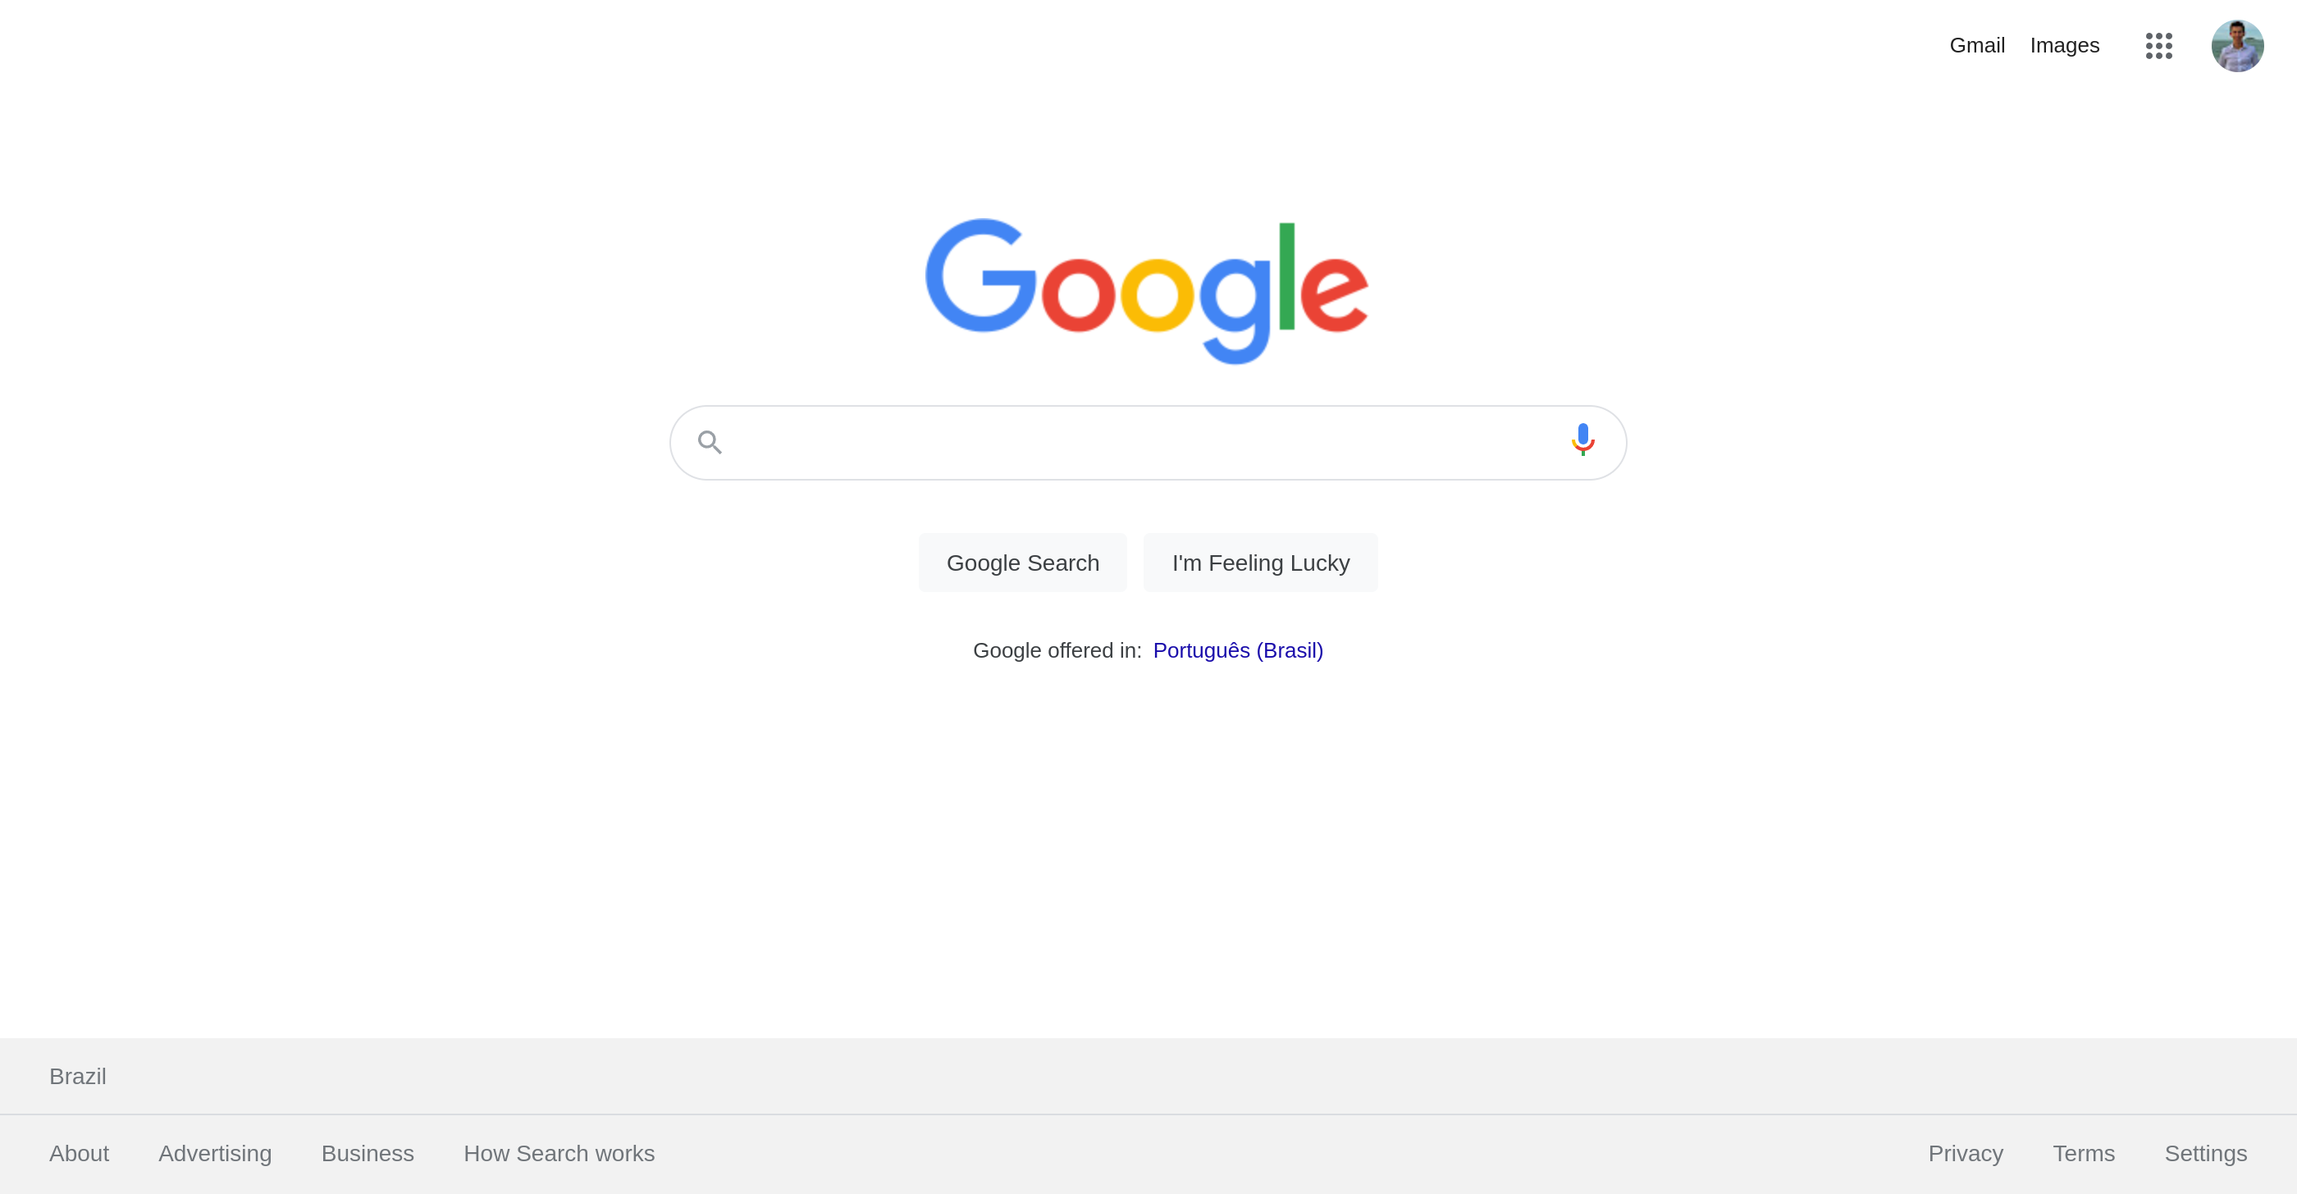
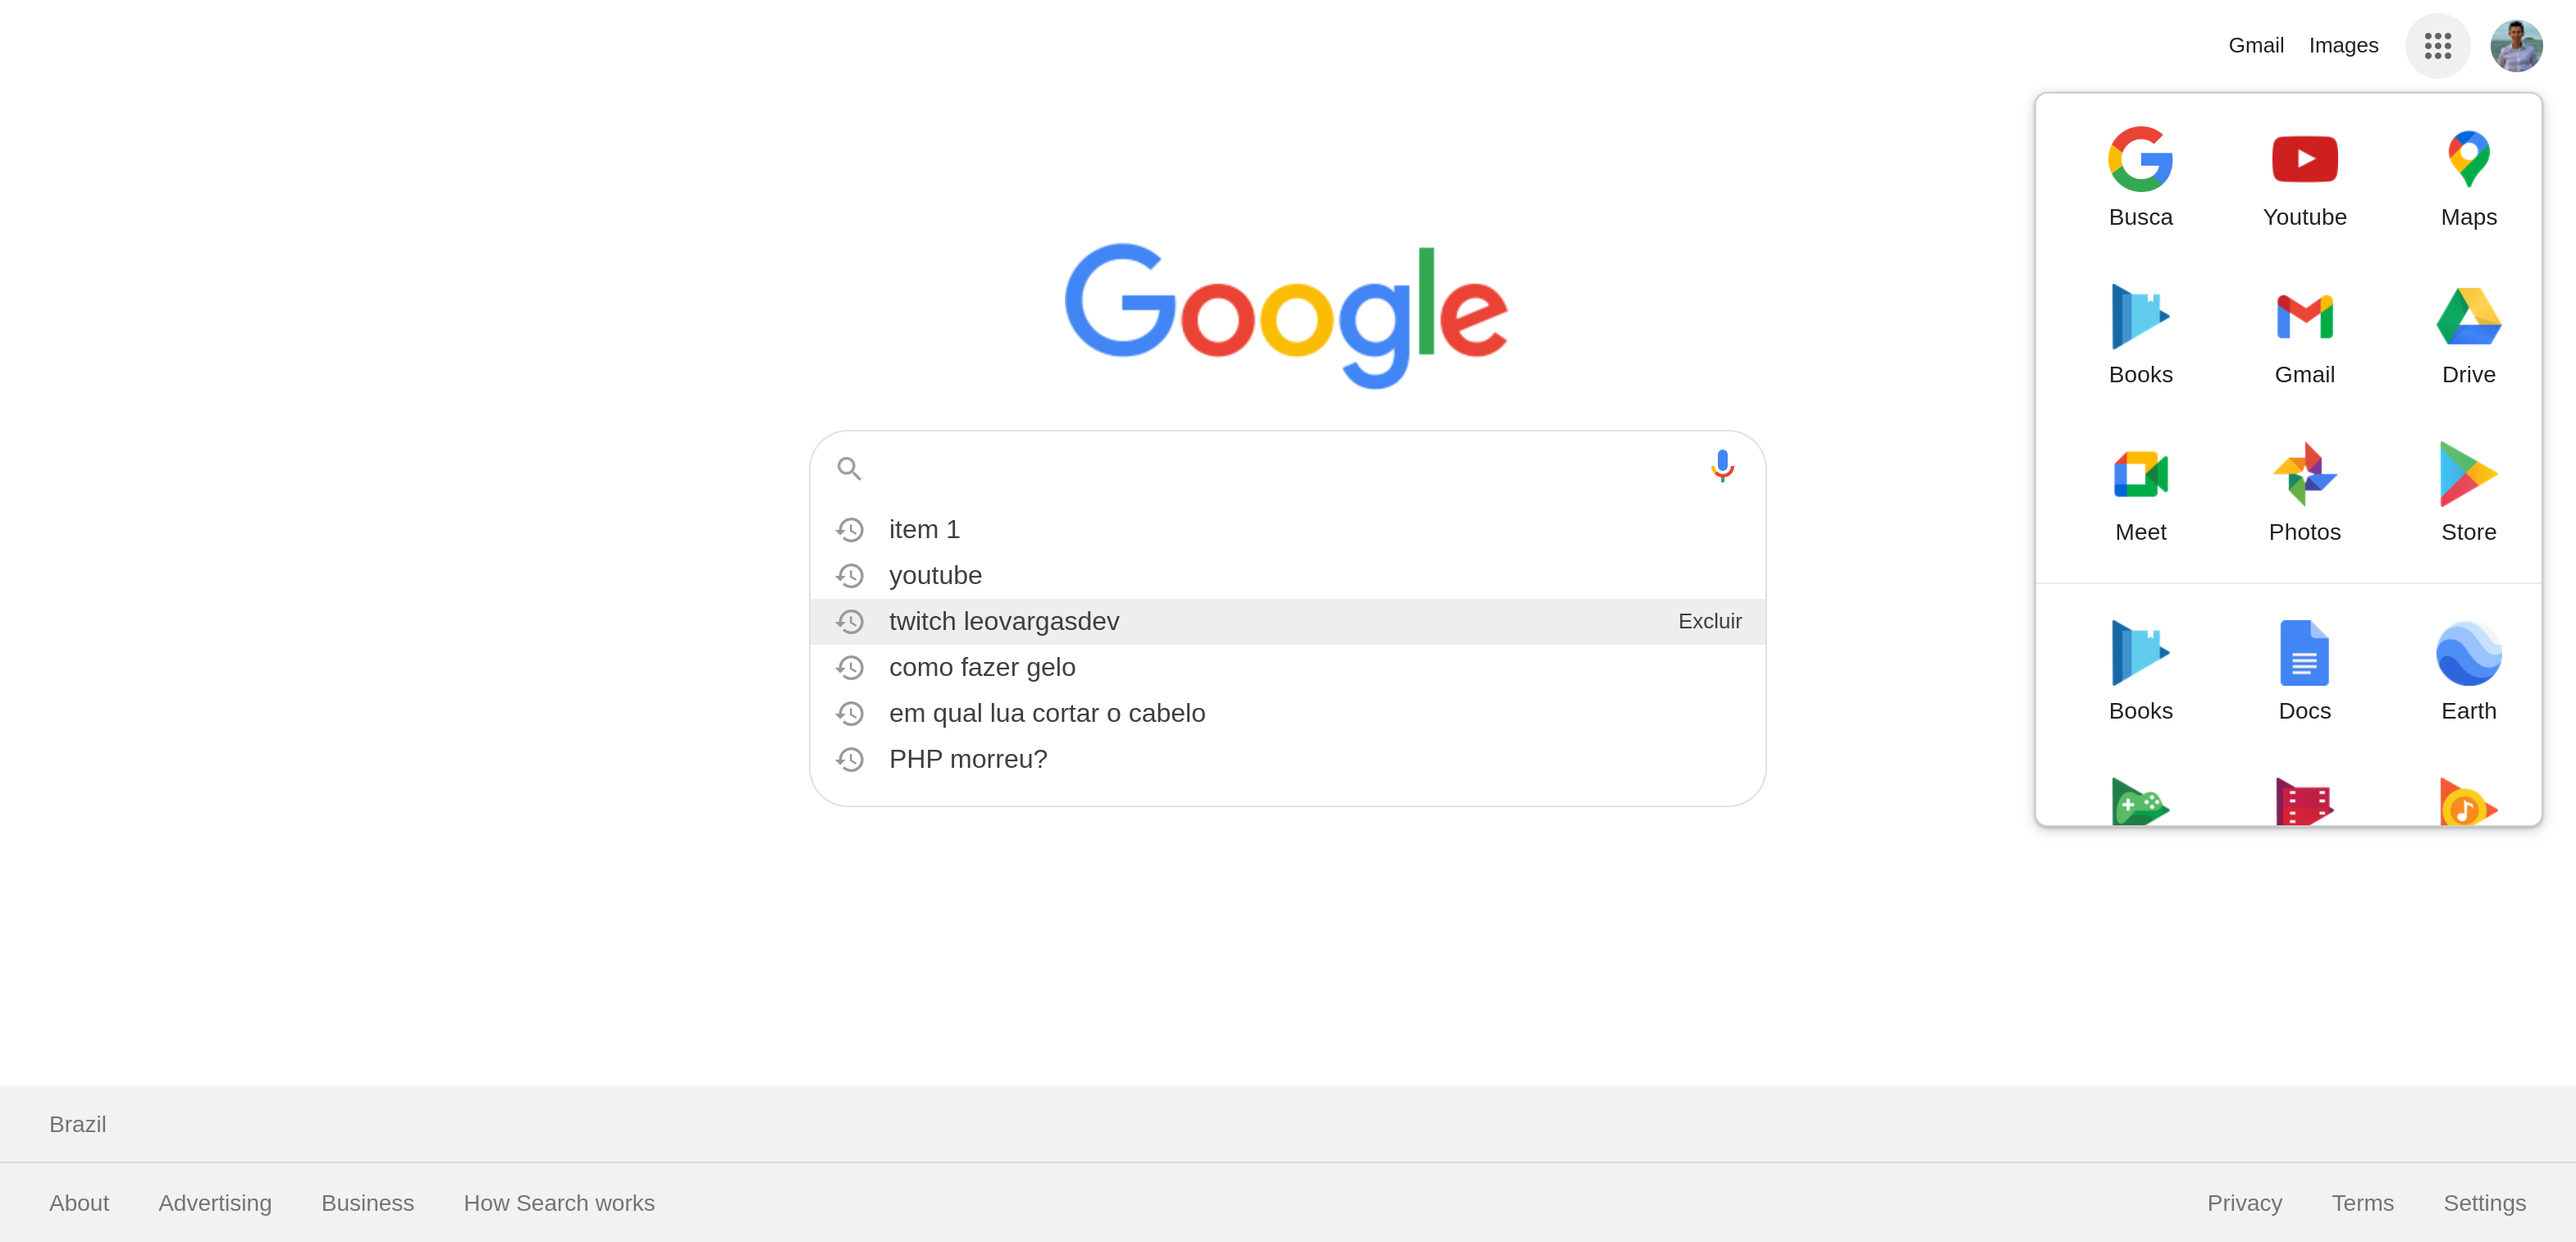
doc: atualizando o README

diff --git a/README.md b/README.md
@@ -1,5 +1,5 @@
 <h1 align="center">
-  Google
+  UI Clone - Google
 </h1>
 
 <p align="center">
@@ -31,26 +31,37 @@ Este projeto é um tutorial que ensina a como recriar a interface do **Google** 
 
 - HTML
 - CSS
+- JavaScript
 
-## 📔 Conhecimentos abordados
+## 📔 Funcionalidades
 
 - [x]  Uso semântico do HTML
 - [x]  Uso de variáveis globais no `:root`
-<!-- - [x]  Menu interativo -->
-<!-- - [x]  Responsividade da aplicação com `@media` -->
+- [x]  Capturar o texto do input e buscar no **Google**
+- [x]  Criar barra com o histórico das buscas
+- [x]  Salvar as buscas no `localStorage`
+- [x]  Criar o menu de aplicativos
+- [x]  Evento para abrir/fechar o menu de aplicavos
+- [x]  Responsividade
 
+### Sugestão funcionalidades
 
-<!-- ## Vídeos no youtube 
+- [ ]  Usar a função `createElement` nos filhos da âncora
+- [ ]  Função para remover o item do histórico
+- [ ]  Criar o menu do usuário
+- [ ]  Fechar o menu de apps ao perder o foco
 
-### #1 DISNEY PLUS - CRIANDO A INTERFACE E INTEGRANDO COM A API
+## Vídeos no youtube 
 
-<a href="https://www.youtube.com/watch?v=3pAnc4Miv00" target="_blank">
- <img src="https://img.youtube.com/vi/3pAnc4Miv00/maxresdefault.jpg" width="100%" height="auto" />
+### #1 HOMEPAGE DO GOOGLE - ESTRUTURA DA PÁGINA | HTML CSS
+
+<a href="https://www.youtube.com/watch?v=fggcHsk-4nw" target="_blank">
+ <img src="https://img.youtube.com/vi/fggcHsk-4nw/maxresdefault.jpg" width="100%" height="auto" />
 </a>
 
 ---
-### #2 DISNEY PLUS - MELHORIAS DE PERFORMANCE E MENU LATERAL
+### #2 HOMEPAGE DO GOOGLE - HISTÓRICO DE BUSCA, MENU APP E RESPONSIVIDADE | HTML CSS
 
-<a href="https://www.youtube.com/watch?v=3IdLROHFKqM" target="_blank">
- <img src="https://img.youtube.com/vi/3IdLROHFKqM/maxresdefault.jpg" width="100%" height="auto" />
-</a> -->
+<a href="https://www.youtube.com/watch?v=N0y6DPjZ3wc" target="_blank">
+ <img src="https://img.youtube.com/vi/N0y6DPjZ3wc/maxresdefault.jpg" width="100%" height="auto" />
+</a>
